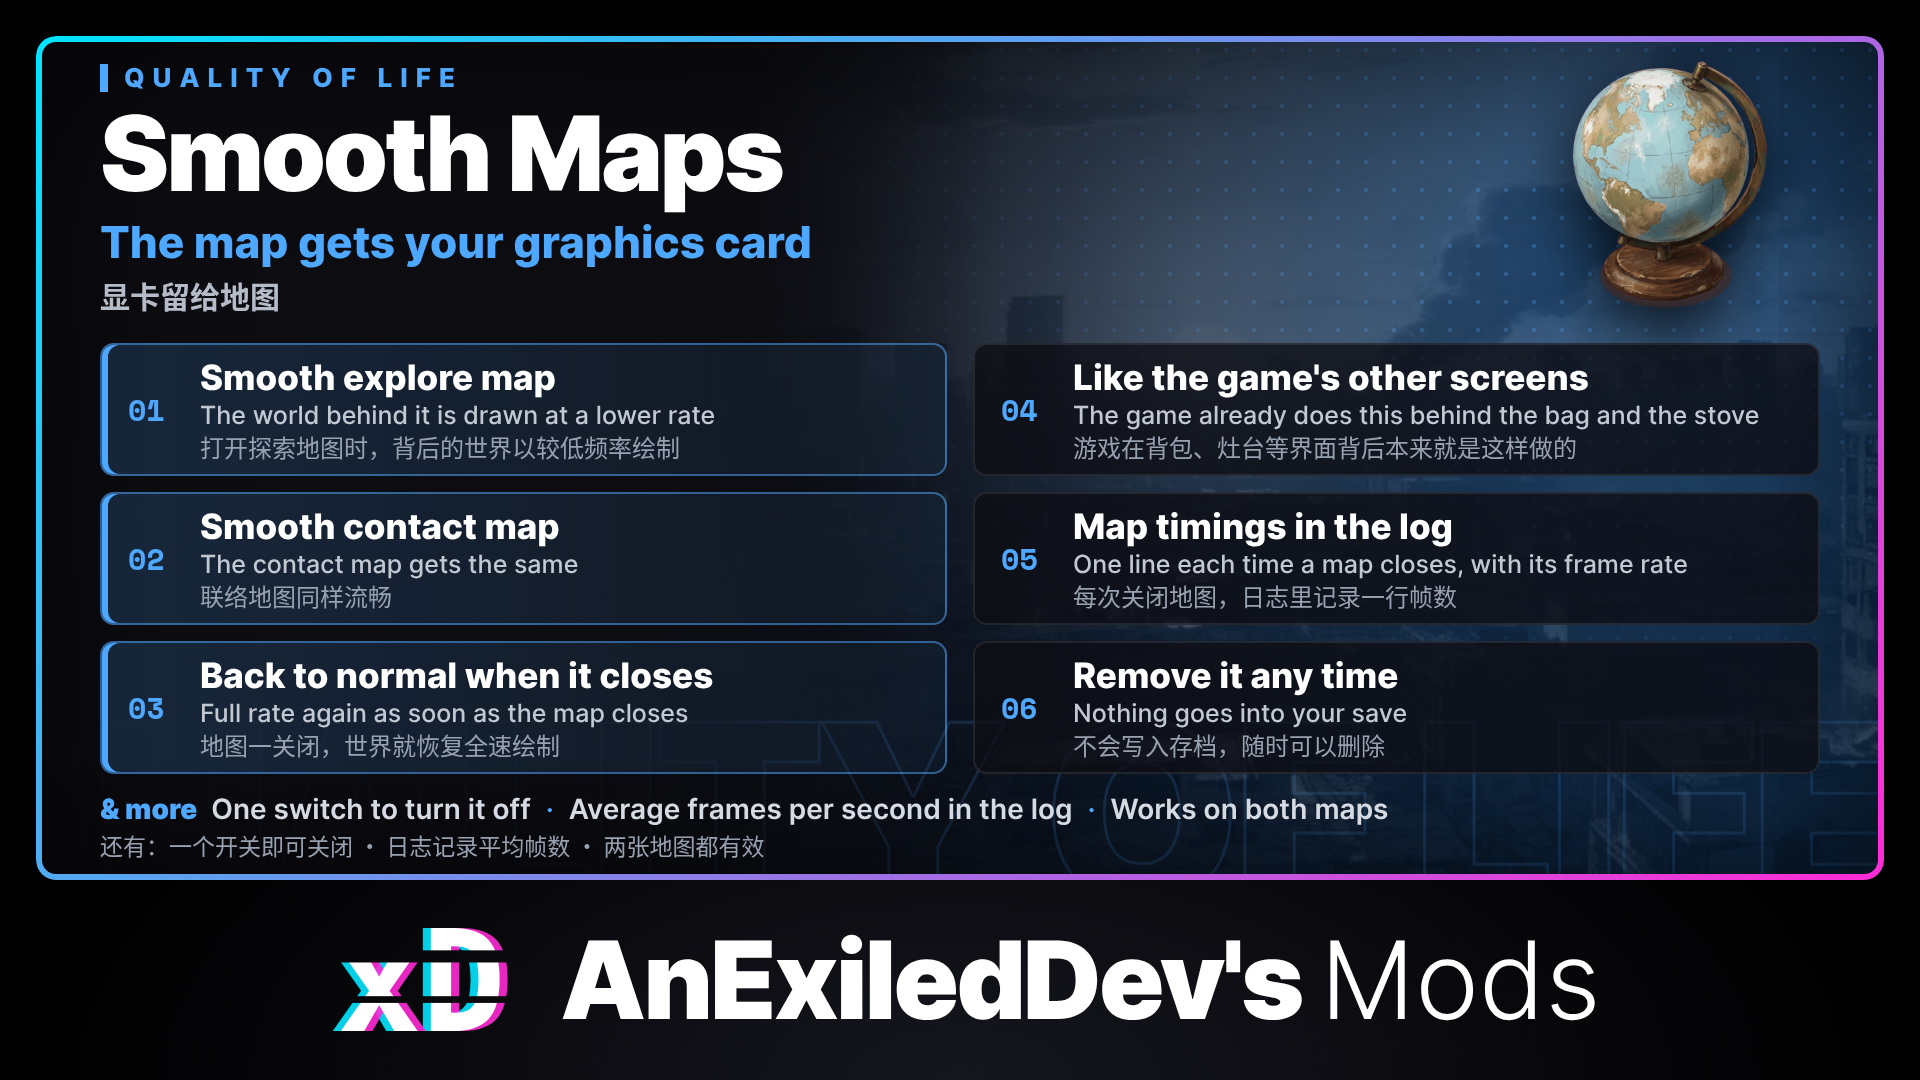
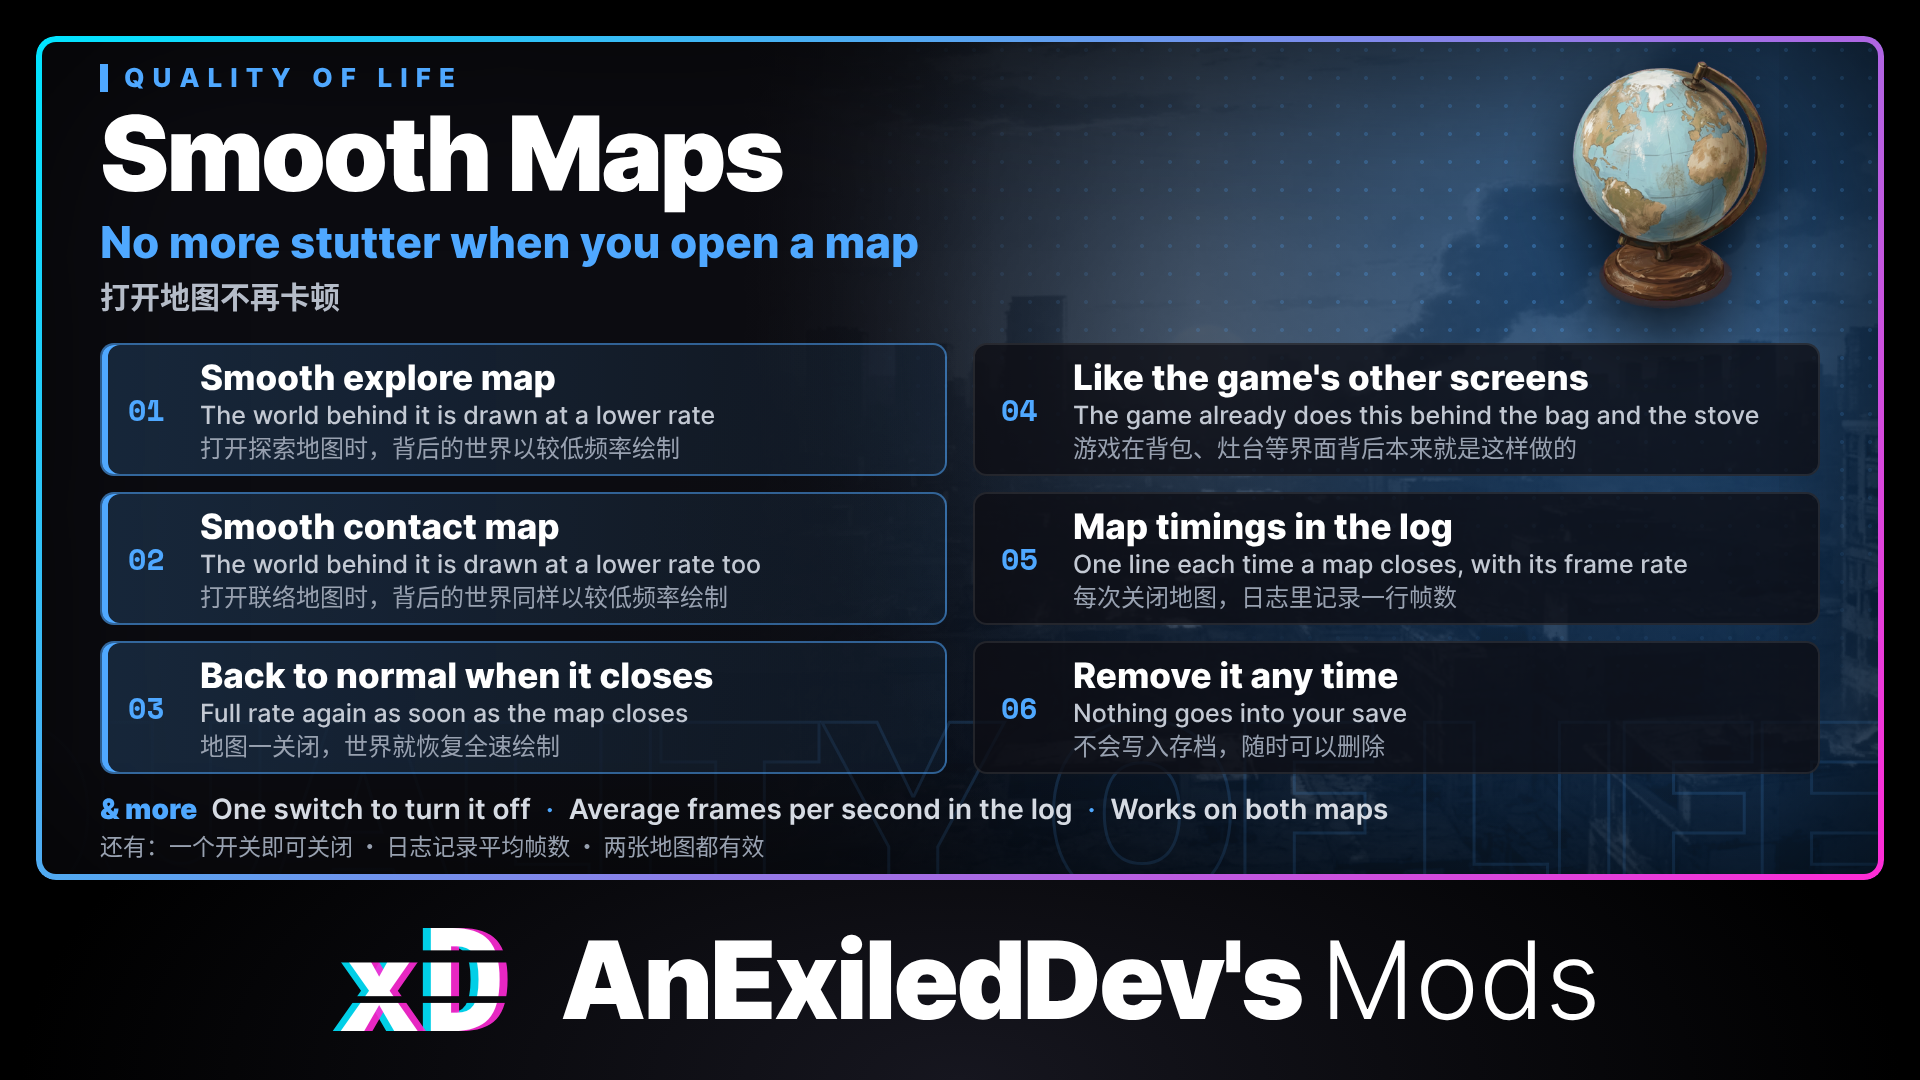
Clearer wording
The README and Nexus page intro now says plainly what the game does behind other screens and what Smooth Maps changes for the maps.
The Nexus summary, the Exiled's Toolkit requirement line and the 0.1.2 changelog lines read more naturally.
New features image.

Changed region(s): [[0.0312, 0.2139, 0.5, 0.3056], [0.0938, 0.5194, 0.4062, 0.5806]]

diff --git a/README.md b/README.md
@@ -2,7 +2,7 @@
 
 Keeps the explore map and the contact map smooth.
 
-Behind the bag, the stove and most other screens, Survival Log stops drawing the world at full speed, because you can't see it anyway. The maps are left off that list, so the game keeps drawing the whole world behind them at full rate. On a laptop or a busy graphics card that leaves too little for the map itself, and it stutters or lags. Smooth Maps puts the maps on the list.
+When you open the bag, the stove or most other screens, Survival Log draws the world behind them at a lower rate, because you can't see it anyway. It doesn't do that for the explore map or the contact map, so the whole world keeps drawing at full rate behind them. On a laptop or a busy graphics card that leaves too little for the map itself, and the map stutters. Smooth Maps makes the game draw the world at the lower rate behind the maps too.
 
 ## Features
 
@@ -16,7 +16,7 @@ Smooth Maps adds nothing to your save and does not edit game files. You can remo
 
 - Survival Log 1.1.20719. Built for this version. A game update can break it until the mod is updated.
 - The [BepInEx Pack for Survival Log](https://www.nexusmods.com/survivallog/mods/12), the BepInEx 6 (IL2CPP) build for the game.
-- [Exiled's Toolkit](https://github.com/AnExiledDev/SurvivalLog-ExiledToolkit) 0.19.0 or newer. Smooth Maps does not load without it. It applies a setting changed on the Mod Manager's Mods screen at once, without a restart.
+- [Exiled's Toolkit](https://github.com/AnExiledDev/SurvivalLog-ExiledToolkit) 0.19.0 or newer. Smooth Maps does not load without it. The Toolkit is what makes a setting you change on the Mod Manager's Mods screen apply right away, without a restart.
 - Optional: [Mod Manager](https://www.nexusmods.com/survivallog/mods/73). With it, you can change every setting in game on its Mods screen and see what each one does, without opening the config file.
 
 ## Install
@@ -45,7 +45,7 @@ Check `BepInEx\LogOutput.log` for `Smooth Maps 0.1.2 started`. Each time you ope
 
 Found a bug, have an idea, or something feels off? Come say so on the Core Directive Discord: https://discord.gg/trTsyxUFqg . When reporting a bug, attach `BepInEx\LogOutput.log`.
 
-To reach me directly, message `exiled.dev` on Discord; you can find me in the [official Survival Log Discord](https://discord.gg/MZGg4gQAUe). I'm also on X as [@AnExiledDev](https://x.com/AnExiledDev).
+To reach me directly, message `exiled.dev` on Discord. You can find me in the [official Survival Log Discord](https://discord.gg/MZGg4gQAUe). I'm also on X as [@AnExiledDev](https://x.com/AnExiledDev).
 
 ## Build
 
@@ -57,7 +57,7 @@ dotnet build src/SmoothMaps -c Release -p:GameDir="C:\path\to\Survival Log" -p:T
 
 `GameDir` is the game folder and `ToolkitDll` is a built `ExiledToolkit.dll`. The output DLL is at `src\SmoothMaps\bin\Release\SmoothMaps.dll`.
 
-The unit tests cover the pure rules and need nothing from the game:
+The unit tests need nothing from the game:
 
 ```
 dotnet test tests/SmoothMaps.Tests

diff --git a/CHANGELOG.md b/CHANGELOG.md
@@ -2,8 +2,8 @@
 
 ## 0.1.2
 
-- A change to FreezeWorldBehindMaps on the Mod Manager's Mods screen takes effect at once, even with a map open.
-- Now needs Exiled's Toolkit 0.19.0 or newer.
+- Changing FreezeWorldBehindMaps on the Mod Manager's Mods screen now takes effect right away, even with a map open.
+- Smooth Maps now needs Exiled's Toolkit 0.19.0 or newer.
 - Made for Survival Log 1.1.20719.
 
 ## 0.1.1
